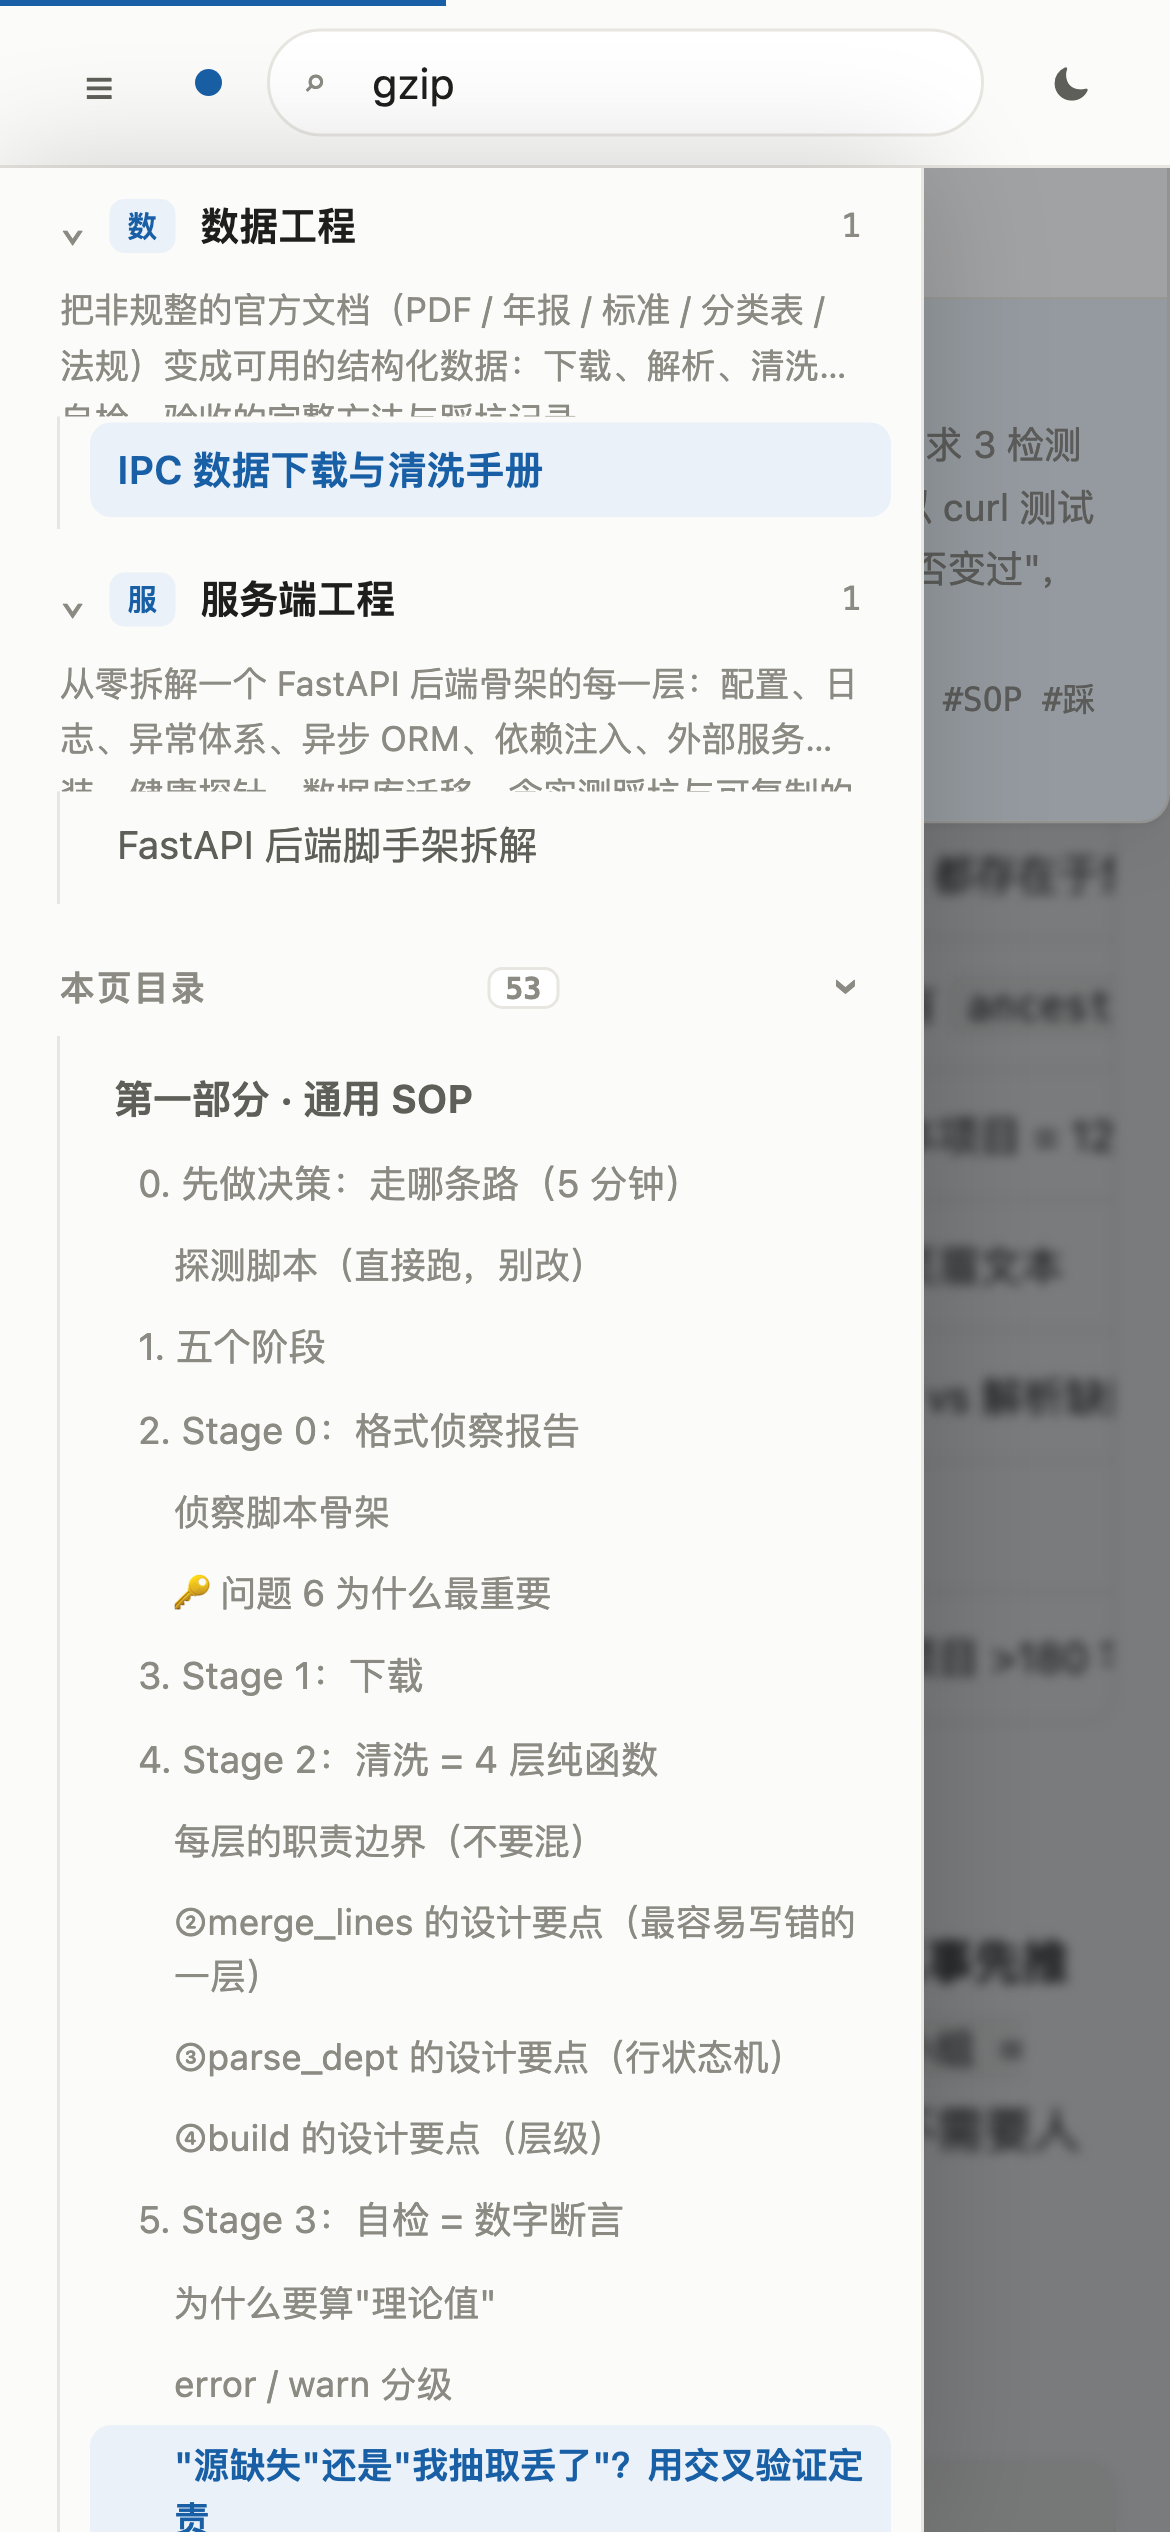
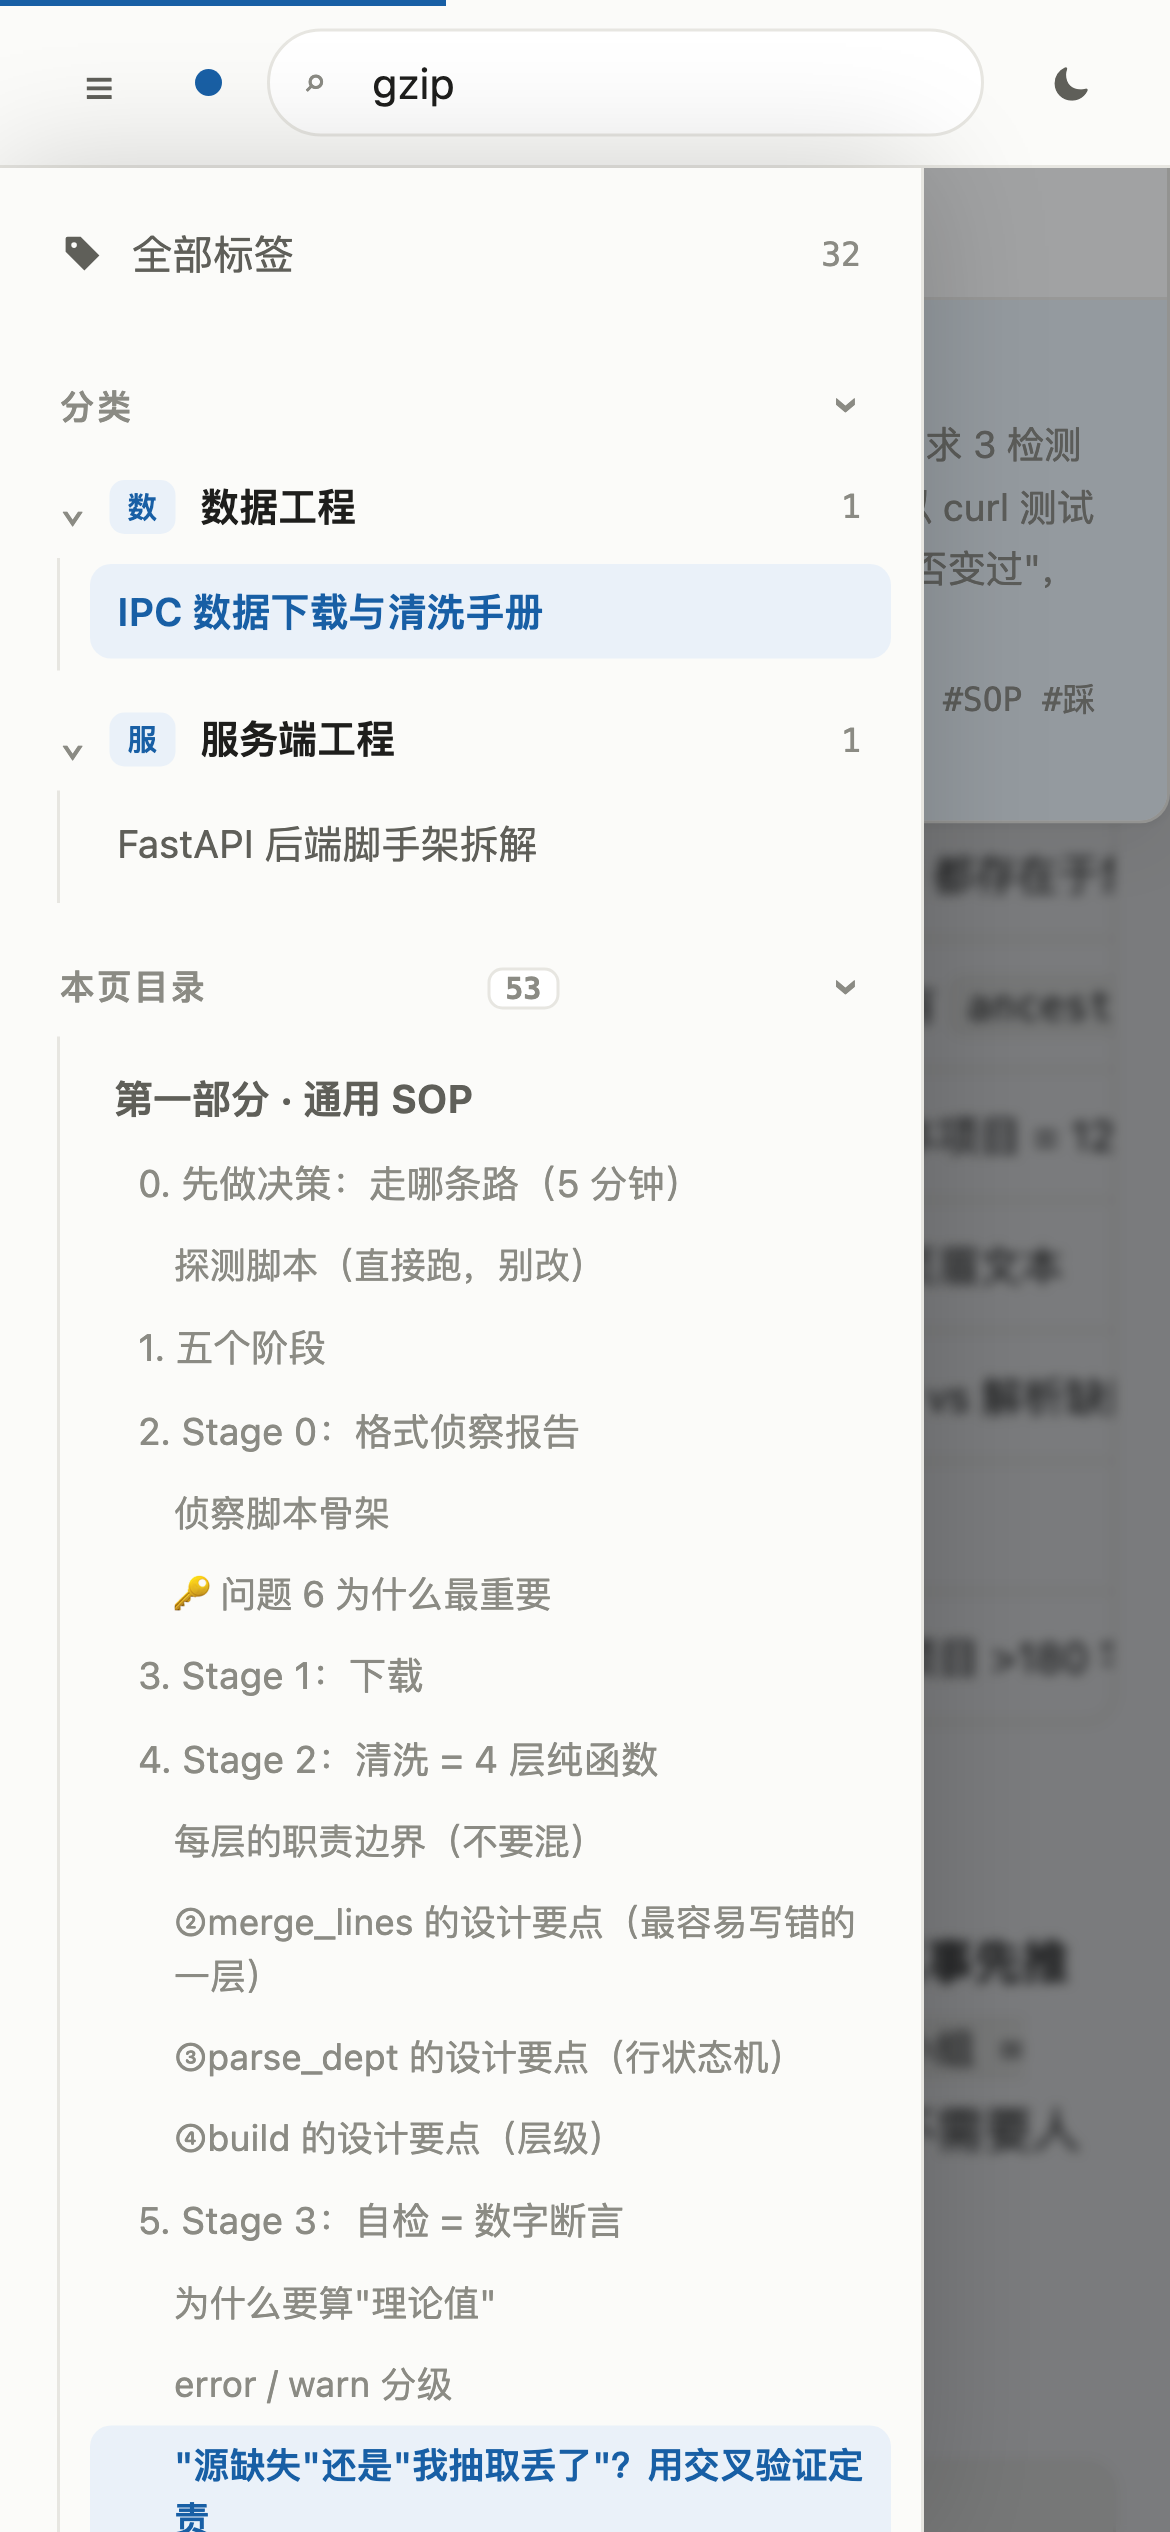
style(sidebar): 分类块去掉分类简介，侧栏只留分类头 + 条目
240px 宽的侧栏放不下两三行介绍：实测 -webkit-line-clamp:2 截出来是半句话，而且没有真的裁干净，文字会盖住下面的条目标题（截图上 IPC 那条被压掉一半）。简介不是没价值，是这里放不下 —— 所以只从侧栏摘掉，分类页 hero 与首页「分类地图」卡片照旧显示。

同时删掉随之失效的 .catdesc 样式，并在 verify.js 加一条结构性断言：分类块只允许有两个子元素（分类头 + 条目列表），防止简介被再塞回来。

diff --git a/index.html b/index.html
@@ -127,8 +127,9 @@ mark{background:var(--mark);color:inherit;border-radius:3px;padding:0 2px}
 .clist a:hover{background:var(--bg-soft);color:var(--text)}
 .clist a.on{background:var(--accent-soft);color:var(--accent);font-weight:600}
 .clist a .fav{color:#e0a52a;font-size:11px;flex:none}
-.catdesc{padding:2px 10px 8px;font-size:11.5px;line-height:1.6;color:var(--muted);
-  display:-webkit-box;-webkit-line-clamp:2;-webkit-box-orient:vertical;overflow:hidden}
+/* 侧栏分类块里不放分类简介：那一栏只有 240px 宽，两三行字必然被截断，
+   还会和下面的条目列表挤在一起（实测会盖住条目标题）。简介留给
+   分类页 hero 和首页「分类地图」卡片 —— 那里版面放得下。 */
 #side .sfoot{
   margin-top:18px;padding:12px 10px 0;border-top:1px solid var(--border);
   display:flex;flex-wrap:wrap;gap:6px;
@@ -532,7 +533,6 @@ function renderSide(){
     h+='<button class="chead" data-toggle="'+c.id+'"><span class="arw">⌄</span>'
       +'<span class="badge">'+esc(c.icon||'·')+'</span><span>'+esc(c.name)+'</span>'
       +'<span class="cnt">'+list.length+'</span></button>';
-    if(c.desc) h+='<div class="catdesc">'+esc(c.desc)+'</div>';
     h+='<div class="clist">';
     list.forEach(function(a){
       h+='<a href="'+esc(linkOf(a))+'"'+tgtAttr(a)+' data-art="'+a.id+'">'

diff --git a/verify.js b/verify.js
@@ -119,6 +119,15 @@ if (DATA) {
   eq("侧栏：分类块数 = 展示分类数（不含 nav 分类）", $$(".catblk").length, calc.showCats);
   ok("侧栏：分类树里没有「收藏」（改由「我的收藏」入口承载，避免重复）",
     $$('#side .catblk[data-cat="bookmarks"]').length === 0);
+  // 分类块里只有「分类头 + 条目列表」两件东西。曾经在中间塞过分类简介，
+  // 240px 宽的侧栏放不下，两行截断还会盖住下面的条目标题。
+  const catBlks = $$("#side .catblk");
+  ok("侧栏：分类块里不放分类简介（只有分类头 + 条目）",
+    $$("#side .catblk .catdesc").length === 0 &&
+    catBlks.every((b) => b.children.length === 2
+      && b.children[0].classList.contains("chead")
+      && b.children[1].classList.contains("clist")),
+    `catdesc=${$$("#side .catblk .catdesc").length} 块=${catBlks.length}`);
   eq("侧栏：条目链接数 = 分类树里的条目数（外链资料不进树）",
     $$("#side a[data-art]").length, calc.sideArts.length);
   eq("侧栏：快捷入口 4 个", $$("#side a[data-nav]").length, 4);

diff --git a/build.py b/build.py
@@ -406,8 +406,9 @@ mark{background:var(--mark);color:inherit;border-radius:3px;padding:0 2px}
 .clist a:hover{background:var(--bg-soft);color:var(--text)}
 .clist a.on{background:var(--accent-soft);color:var(--accent);font-weight:600}
 .clist a .fav{color:#e0a52a;font-size:11px;flex:none}
-.catdesc{padding:2px 10px 8px;font-size:11.5px;line-height:1.6;color:var(--muted);
-  display:-webkit-box;-webkit-line-clamp:2;-webkit-box-orient:vertical;overflow:hidden}
+/* 侧栏分类块里不放分类简介：那一栏只有 240px 宽，两三行字必然被截断，
+   还会和下面的条目列表挤在一起（实测会盖住条目标题）。简介留给
+   分类页 hero 和首页「分类地图」卡片 —— 那里版面放得下。 */
 #side .sfoot{
   margin-top:18px;padding:12px 10px 0;border-top:1px solid var(--border);
   display:flex;flex-wrap:wrap;gap:6px;
@@ -790,7 +791,6 @@ function renderSide(){
     h+='<button class="chead" data-toggle="'+c.id+'"><span class="arw">⌄</span>'
       +'<span class="badge">'+esc(c.icon||'·')+'</span><span>'+esc(c.name)+'</span>'
       +'<span class="cnt">'+list.length+'</span></button>';
-    if(c.desc) h+='<div class="catdesc">'+esc(c.desc)+'</div>';
     h+='<div class="clist">';
     list.forEach(function(a){
       h+='<a href="'+esc(linkOf(a))+'"'+tgtAttr(a)+' data-art="'+a.id+'">'

diff --git a/README.md b/README.md
@@ -139,7 +139,7 @@ python3 build.py
 │   ├── <id>/source.html          ←   正文（含 <main>）；外链资料没有这个文件
 │   └── …
 ├── build.py                      ← 生成器：扫描 articles/ 全量重建（纯标准库）
-├── verify.js                     ← 逻辑验证：jsdom 里真跑页面脚本，139 项断言
+├── verify.js                     ← 逻辑验证：jsdom 里真跑页面脚本，140 项断言
 ├── cdp-verify.js                 ← 渲染验证：驱动本机 Chrome，86 项断言
 └── shots/                        ← 上面那个脚本输出的截图
 ```
@@ -179,4 +179,7 @@ Chromium 的动画时长随滚动距离增长。固定 `sleep()` 会在长页面
 - **「收藏」与「星标」是两回事**：收藏 = 外部资料本身（进「我的收藏」，点开跳原文）；
   星标 = 给库内条目做个记号（文章页右上角，落在现有分类树里）。混在一起会让人以为
   「收藏」里应该出现自己标记过的文章 —— 这正是最初踩过的坑。
+- **侧栏分类块里不写分类简介**：那一栏只有 240px 宽，两三行介绍必然被截断成半句话，
+  还会把下面的条目列表挤在一起（实测会盖住条目标题）。简介只留给分类页 hero 和首页「分类地图」卡片 ——
+  那里版面放得下，能整段读完。**同一段文字放不下的地方就别放**，不是把字号调小硬塞。
 - **源文件与产物都在仓库里**：`articles/` 是可读可改的输入，`index.html` 是产物；改完重跑，不需要理解生成器内部。
